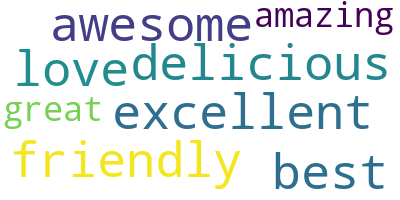
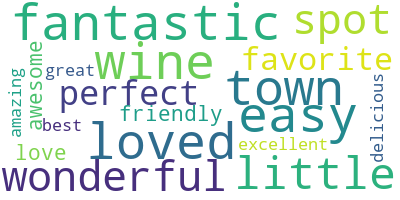
update wordcloud

diff --git a/sentiment/sentiment.py b/sentiment/sentiment.py
@@ -89,7 +89,7 @@ if __name__ == "__main__":
 
     utility.plot_confusion_matrix(sentiment.devy, yp, class_names, "sentiment")
     
-    utility.generate_wordcloud(cls, sentiment.vect, 10, "sentiment")
+    utility.generate_wordcloud(cls, sentiment.vect, 20, "sentiment")
 
     utility.generate_lime(cls, sentiment.vect, class_names, sentiment.dev_data[0], "sentiment", 6)
 

diff --git a/Fake_master.py b/Fake_master.py
@@ -296,7 +296,7 @@ def main():
     file1.close()
     file2.close()
     file3.close()
-    utility.generate_wordcloud(nb, cvec, 10, "Fake_news")
+    utility.generate_wordcloud(nb, cvec, 20, "Fake_news")
     return nb, cvec, feature_weight_dict
     
 if __name__ == "__main__":

diff --git a/sentiment/utility.py b/sentiment/utility.py
@@ -89,7 +89,6 @@ def plot_confusion_matrix(y_true, y_pred, class_names, out_name):
             
 def generate_wordcloud(model, vectorizier, k, out_name):
     coefficients = model.coef_[0]
-    k = 8
     top_k =np.argsort(coefficients)[-k:]
     top_k_words = []
 
